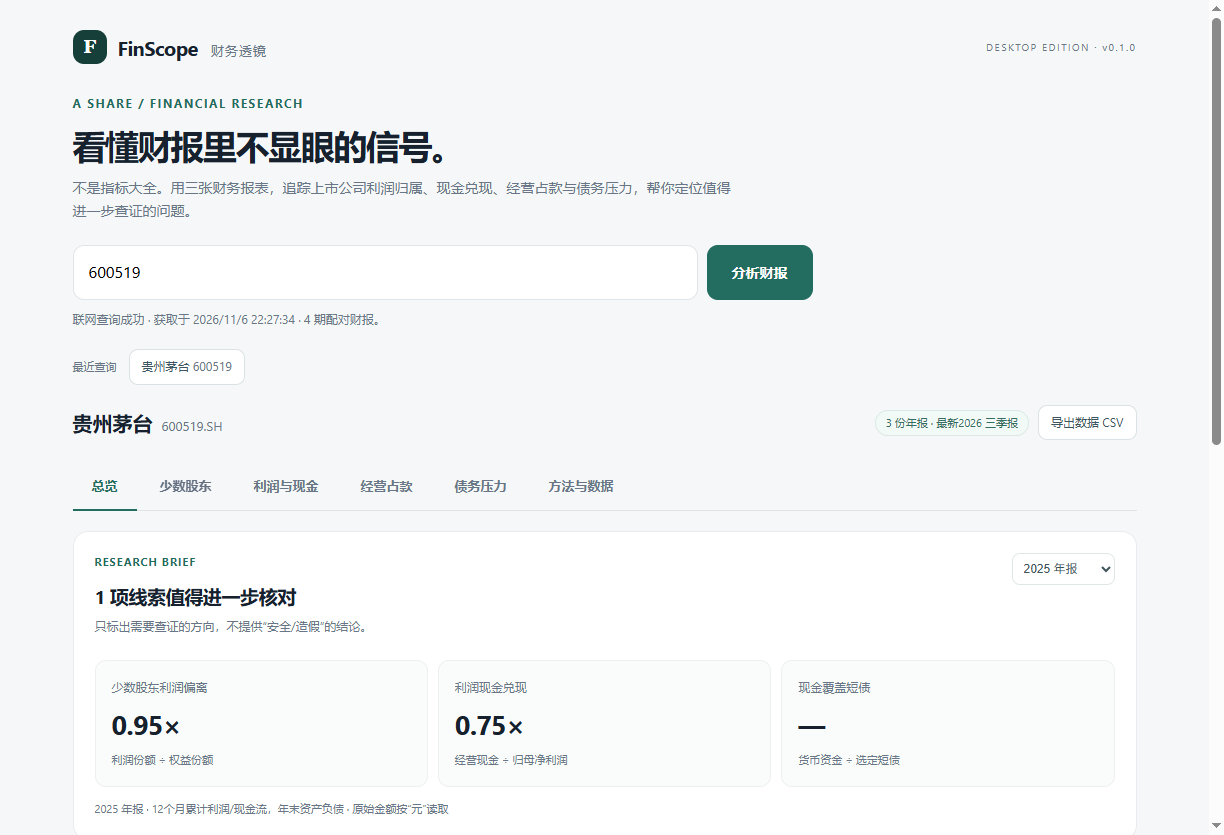
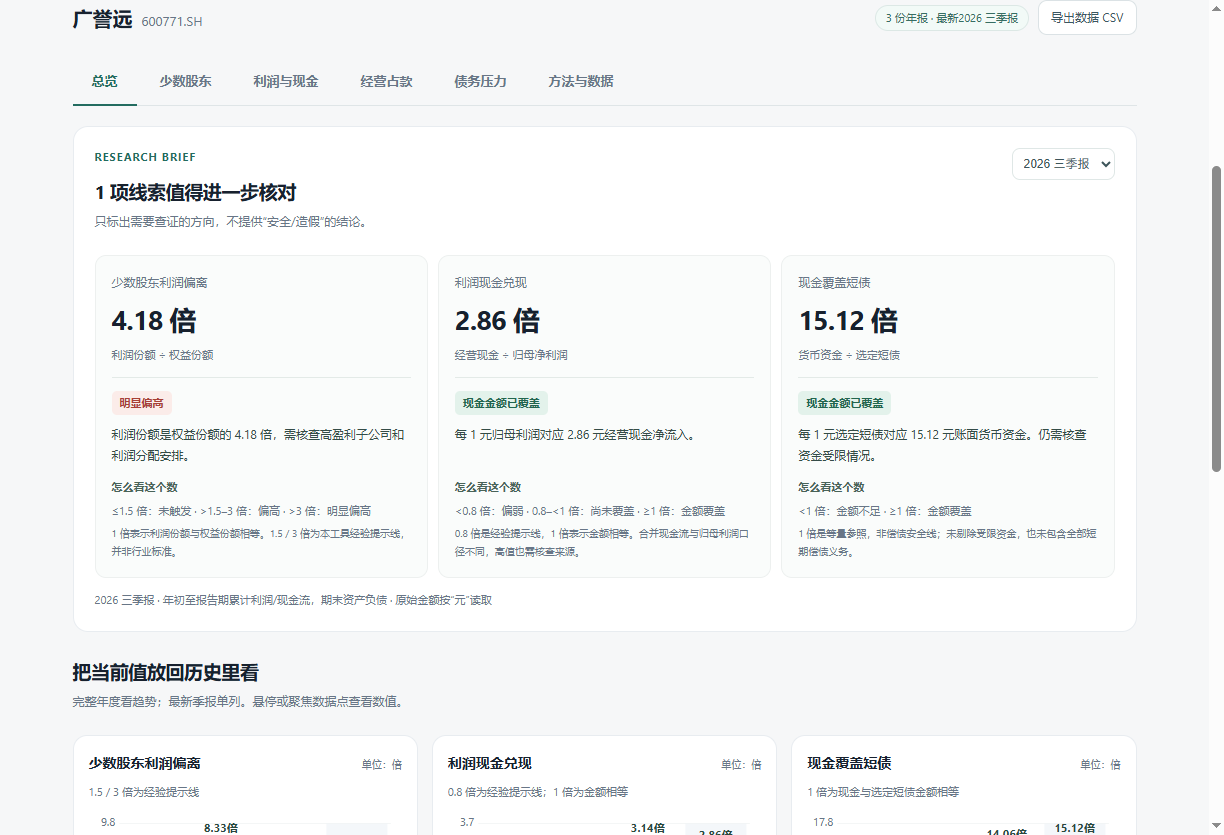
feat: 增加指标参考区间、白话解读和财报趋势图

diff --git a/src/renderer.js b/src/renderer.js
@@ -25,7 +25,7 @@ function div(a,b){return a!==null&&b!==null&&b!==0? a/b :null}
 function fmt(n,d=2){return n===null||!Number.isFinite(n)?'—':n.toFixed(d)}
 function billion(n){return n===null?'—':fmt(n/1e8)+'亿'}
 function pct(n){return n===null?'—':fmt(n*100)+'%'}
-function times(n){return n===null?'—':fmt(n)+'×'}
+function times(n){return n===null?'—':fmt(n)+' 倍'}
 function change(n,base){return base>0&&n!==null?div(n-base,base):null}
 function periodName(d){return !d?'—':d.slice(0,4)+({'12-31':' 年报','09-30':' 三季报','06-30':' 中报','03-31':' 一季报'}[d.slice(5)]||' 报告')}
 function codeOf(str){const match=String(str).trim().toUpperCase().match(/^(\d{6})(?:\.(SH|SZ|BJ))?$/);if(!match)return null;return {code:match[1],secu:match[1]+'.'+(match[2]||(/^[56]/.test(match[1])?'SH':/^(?:[48]|92)/.test(match[1])?'BJ':'SZ'))}}
@@ -39,7 +39,7 @@ function currently(){return reports.find(r=>r.date===selectedPeriod)||latest||an
 function periodOptions(){return [...(latest?[latest]:[]),...annual].map(r=>`<option value="${r.date}" ${selectedPeriod===r.date?'selected':''}>${periodName(r.date)}</option>`).join('')}
 function selectPeriod(){return `<select class="yearselect" data-period aria-label="报告期">${periodOptions()}</select>`}
 function card(title,subtitle,content,extra=''){return `<div class="card"><div class="subhead"><div><h2>${title}</h2>${subtitle?`<p>${subtitle}</p>`:''}</div>${extra}</div>${content}</div>`}
-function kpi(name,value,desc){return `<div class="kpi"><label>${name}</label><div class="value">${value}</div><small>${desc||' '}</small></div>`}
+function kpi(name,value,desc){const key=({'少数股东利润偏离':'minority','份额偏离倍数':'minority','利润现金兑现':'cash','现金兑现比':'cash','现金覆盖短债':'debt','现金覆盖倍数':'debt'})[name];const guide=key?metricGuide(key,metricValue(key,currently())):'';return `<div class="kpi"><label>${name}</label><div class="value">${value}</div><small>${desc||' '}</small>${guide}</div>`}
 function statusClass(s){return s==='bad'?'bad':s==='watch'?'warning':''}
 function insight(title,detail,level=''){return `<div class="insight ${statusClass(level)}"><strong>${title}</strong><p>${detail}</p></div>`}
 function table(head,rows){return `<div class="tablebox"><table><thead><tr>${head.map(v=>`<th>${v}</th>`).join('')}</tr></thead><tbody>${rows.map(row=>`<tr>${row.map((v,i)=>`<td>${i===0?`<b>${v}</b>`:v}</td>`).join('')}</tr>`).join('')}</tbody></table></div>`}
@@ -51,13 +51,13 @@ out+=card('本期需要留意的地方','根据本期可计算指标自动生成
 out+=card('三年趋势速览','仅完整年报之间直接比较；当年季报另列。',table(['报告期','少数股东偏离','经营现金/归母净利','货币资金/选定短债'],[...annual].reverse().map(x=>[periodName(x.date),times(minority(x).ratio),times(cash(x).ratio),times(raw.financial?null:debt(x).coverage)])));$('overview-view').innerHTML=out}
 function minorityPage(){const r=currently();if(!r)return;const m=minority(r);let review;if(m.ratio===null)review=empty('少数股东权益或利润缺失、为零或口径异常');else if(m.ratio>3)review=insight('利润归属与净资产份额差距很大','请先确认是否由少数股东持股的高盈利子公司驱动，再查重大子公司名单、股权协议、利润分配和回购安排；不能直接推定明股实债。','bad');else if(m.ratio>1.5)review=insight('少数股东利润份额高于权益份额','这可能是部分子公司盈利能力更高，也可能是权益结构或分配安排差异。优先看连续三年是否都存在。','watch');else review=insight('当前偏离倍数不高','这只能说明此筛查项未出现明显偏离，不表示不存在其他财务问题。');const metrics=[['少数股东权益',val(r,'minorityEquity')],['所有者权益合计',val(r,'equity')],['少数股东损益',val(r,'minorityProfit')],['合并净利润',val(r,'profit')]];let out=card('少数股东：谁真正分享了利润？','比起直接看“少数股东损益”金额，更值得看其利润份额是否长期大于权益份额。',`<div class="kpis">${kpi('权益份额',pct(m.er),'少数股东权益 / 总权益')}${kpi('利润份额',pct(m.pr),'少数股东损益 / 净利润')}${kpi('份额偏离倍数',times(m.ratio),'利润份额 / 权益份额')}</div>${review}${dataNote(r)}`,selectPeriod());
 out+=card('历史趋势 · 完整年报','看看是偶发偏离，还是持续结构性现象。',table(['报告期','权益份额','利润份额','偏离倍数'],[...annual].reverse().map(x=>{const v=minority(x);return [periodName(x.date),pct(v.er),pct(v.pr),times(v.ratio)]}).concat(latest?[[periodName(latest.date)+'*',pct(minority(latest).er),pct(minority(latest).pr),times(minority(latest).ratio)]]:[]))+'<p class="micro">* 季报为年内累计利润，不参与完整年度趋势判断。</p>');
-out+=`<div class="grid2">${card('公式为什么这样设计？','两个比例的比较，不是“少数股东收益率”。',`<div class="formula"><code>权益份额</code> = 少数股东权益 ÷ 所有者权益合计<br><code>利润份额</code> = 少数股东损益 ÷ 合并净利润<br><code>偏离倍数</code> = 利润份额 ÷ 权益份额</div><p class="micro">1.5×/3×是本工具沿用的经验提示阈值，并非会计或监管认定标准。净利润≤0、权益份额≤0时不使用这个倍数判断。</p>`)}${card('先核查这三个问题','这是线索，不是结论。',`<div class="faq"><details open><summary>高利润子公司股权是不是较分散？</summary><p>高盈利子公司有更多非控股股东，本来就会拉高少数股东利润份额。</p></details><details><summary>少数股东是否有约定回购/保底收益？</summary><p>若要判断明股实债，应进一步查看融资协议、优先分配权、回购承诺与债务披露。</p></details><details><summary>连续三年是否偏高且逐年加重？</summary><p>持续趋势比某一个季度的数值更有研究价值。</p></details></div>` )}</div>`;
+out+=`<div class="grid2">${card('公式为什么这样设计？','两个比例的比较，不是“少数股东收益率”。',`<div class="formula"><code>权益份额</code> = 少数股东权益 ÷ 所有者权益合计<br><code>利润份额</code> = 少数股东损益 ÷ 合并净利润<br><code>偏离倍数</code> = 利润份额 ÷ 权益份额</div><p class="micro">1.5 倍 / 3 倍是本工具沿用的经验提示阈值，并非会计或监管认定标准。净利润≤0、权益份额≤0时不使用这个倍数判断。</p>`)}${card('先核查这三个问题','这是线索，不是结论。',`<div class="faq"><details open><summary>高利润子公司股权是不是较分散？</summary><p>高盈利子公司有更多非控股股东，本来就会拉高少数股东利润份额。</p></details><details><summary>少数股东是否有约定回购/保底收益？</summary><p>若要判断明股实债，应进一步查看融资协议、优先分配权、回购承诺与债务披露。</p></details><details><summary>连续三年是否偏高且逐年加重？</summary><p>持续趋势比某一个季度的数值更有研究价值。</p></details></div>` )}</div>`;
 out+=card('本期原始数据','资产负债表与利润表的四个关键数，单位亿元。',table(['字段','金额'],metrics.map(v=>[v[0],billion(v[1])])));$('minority-view').innerHTML=out}
-function cashPage(){const r=currently();if(!r)return;const c=cash(r);let finding=c.ratio===null?empty('归母净利润不大于零，或经营现金流字段缺失'):c.ratio<0?insight('有利润，但经营现金净流出','优先检查应收增长、营运资本变化和经营性支付。还要排除扩张期与行业季节性影响。','bad'):c.ratio<0.8?insight('利润兑现为现金的能力偏弱','这个口径比较粗略，不能只凭一期数据判断；连续三年偏弱更值得深入研究。','watch'):insight('本期经营现金覆盖归母利润','现金流较强是积极信号，但也可能受预收款或供应商付款节奏影响。');let rows=[...annual].reverse().map(x=>{const v=cash(x);return [periodName(x.date),billion(v.p),billion(v.o),times(v.ratio)]});if(latest)rows.push([periodName(latest.date)+'*',billion(cash(latest).p),billion(cash(latest).o),times(cash(latest).ratio)]);let out=card('利润到账了吗？','净利润可以先确认收入，现金不一定同步到账。',`<div class="kpis">${kpi('经营现金流净额',billion(c.o),'公司经营活动产生的现金')}${kpi('归母净利润',billion(c.p),'归属于母公司的利润')}${kpi('现金兑现比',times(c.ratio),'经营现金 / 归母净利润')}</div>${finding}${dataNote(r)}`,selectPeriod());out+=card('连续三年是否“赚利润不赚钱”？','应优先观察完整年度，季报现金流的季节性可能较大。',table(['报告期','归母净利润','经营现金','兑现比'],rows)+'<p class="micro">* 最新季报单列，不能将9个月金额与12个月金额直接比较。</p>');out+=`<div class="grid2">${card('怎么算？','可理解为利润的现金兑现程度。',`<div class="formula"><code>现金兑现比</code> = 经营活动现金流量净额 ÷ 归母净利润</div><p class="micro">经营现金是全集团合并口径，而归母净利润剔除了少数股东损益，因此这里是一个筛查代理指标，不是严格同口径的收益质量比率。可以同时结合合并净利润核对。</p>`)}${card('看到偏低，先查什么？','这比直接打分更实用。',`<div class="faq"><details open><summary>应收账款是不是涨得比收入快？</summary><p>可能反映销售回款滞后，跳转“经营占款”继续看。</p></details><details><summary>是否大幅增加存货？</summary><p>备货会占用现金，但需区分主动扩产与滞销积压。</p></details><details><summary>是否靠预收款改善现金流？</summary><p>经营现金强也可能来自提前收款，不代表所有当期收入已经兑现。</p></details></div>` )}</div>`;$('cash-view').innerHTML=out}
+function cashPage(){const r=currently();if(!r)return;const c=cash(r);let finding=c.ratio===null?empty('归母净利润不大于零，或经营现金流字段缺失'):c.ratio<0?insight('有利润，但经营现金净流出','优先检查应收增长、营运资本变化和经营性支付。还要排除扩张期与行业季节性影响。','bad'):c.ratio<0.8?insight('利润兑现为现金的能力偏弱','这个口径比较粗略，不能只凭一期数据判断；连续三年偏弱更值得深入研究。','watch'):c.ratio<1?insight('经营现金尚未完全覆盖归母利润','高于0.8倍经验提示线，但仍低于1倍金额相等参照。应结合全年及历史趋势核查。','watch'):insight('本期经营现金覆盖归母利润','现金流较强是积极信号，但也可能受预收款或供应商付款节奏影响。');let rows=[...annual].reverse().map(x=>{const v=cash(x);return [periodName(x.date),billion(v.p),billion(v.o),times(v.ratio)]});if(latest)rows.push([periodName(latest.date)+'*',billion(cash(latest).p),billion(cash(latest).o),times(cash(latest).ratio)]);let out=card('利润到账了吗？','净利润可以先确认收入，现金不一定同步到账。',`<div class="kpis">${kpi('经营现金流净额',billion(c.o),'公司经营活动产生的现金')}${kpi('归母净利润',billion(c.p),'归属于母公司的利润')}${kpi('现金兑现比',times(c.ratio),'经营现金 / 归母净利润')}</div>${finding}${dataNote(r)}`,selectPeriod());out+=card('连续三年是否“赚利润不赚钱”？','应优先观察完整年度，季报现金流的季节性可能较大。',table(['报告期','归母净利润','经营现金','兑现比'],rows)+'<p class="micro">* 最新季报单列，不能将9个月金额与12个月金额直接比较。</p>');out+=`<div class="grid2">${card('怎么算？','可理解为利润的现金兑现程度。',`<div class="formula"><code>现金兑现比</code> = 经营活动现金流量净额 ÷ 归母净利润</div><p class="micro">经营现金是全集团合并口径，而归母净利润剔除了少数股东损益，因此这里是一个筛查代理指标，不是严格同口径的收益质量比率。可以同时结合合并净利润核对。</p>`)}${card('看到偏低，先查什么？','这比直接打分更实用。',`<div class="faq"><details open><summary>应收账款是不是涨得比收入快？</summary><p>可能反映销售回款滞后，跳转“经营占款”继续看。</p></details><details><summary>是否大幅增加存货？</summary><p>备货会占用现金，但需区分主动扩产与滞销积压。</p></details><details><summary>是否靠预收款改善现金流？</summary><p>经营现金强也可能来自提前收款，不代表所有当期收入已经兑现。</p></details></div>` )}</div>`;$('cash-view').innerHTML=out}
 function workingPage(){if(raw?.financial){$('working-view').innerHTML=card('金融企业不适用此初筛','银行、证券、保险公司的经营资产结构不同。',empty('请直接核对金融行业财报附注，不套用工业企业应收与存货指标'));return;}const r=currently();if(!r)return;const w=working(r),prev=annual.find(x=>Number(x.date.slice(0,4))===Number(r.date.slice(0,4))-1&&r.date.endsWith('-12-31'));const w0=prev?working(prev):null;let rows=[...annual].reverse().map(x=>{const v=working(x);return [periodName(x.date),billion(v.rev),billion(v.ar),billion(v.iv),pct(v.arRatio)]});if(latest)rows.push([periodName(latest.date)+'*',billion(working(latest).rev),billion(working(latest).ar),billion(working(latest).iv),'不横比']);const ag=w0?change(w.ar,w0.ar):null,rg=w0?change(w.rev,w0.rev):null,ig=w0?change(w.iv,w0.iv):null;let comment=!r.date.endsWith('-12-31')?insight('季报中的收入是累计值，资产是期末值','本期只展示原始数，避免把期末应收直接除以9个月营收后与年报比。请切换完整年报看同比分化。'):ag!==null&&rg!==null&&ag-rg>0.2?insight('应收增长比收入快得多','关注客户信用政策、应收账龄、坏账准备和前五大客户变化。','watch'):insight('可先观察收入、应收与存货三条线','单一余额高低无法直接判定问题，主要看增长是否持续背离。');let out=card('增长是销售，还是占款？','这里不盲目强调周转率，只比较趋势与增长背离。',`<div class="kpis">${kpi('营业收入',billion(w.rev),'年初至报告期累计')}${kpi('应收账款',billion(w.ar),'报告期末余额')}${kpi('存货',billion(w.iv),'报告期末余额')}</div>${comment}${dataNote(r)}`,selectPeriod());if(prev)out+=card('与上年同期年报比较','增长差异比单独看应收金额更有解释力。',`<div class="kpis">${kpi('收入同比',pct(rg),'完整年度')}${kpi('应收同比',pct(ag),'期末对期末')}${kpi('存货同比',pct(ig),'期末对期末')}</div>`);out+=card('完整年报趋势','应收、存货是时点余额；营收为全年累计额。',table(['报告期','营业收入','应收账款','存货','应收/年收入'],rows)+'<p class="micro">* 季报不计算应收/收入比，避免期间长度导致的误读。</p>');out+=`<div class="grid2">${card('为什么看增长背离？','当营收增长没有转化为回款，资产负债表可能先暴露变化。',`<div class="formula"><code>应收增速</code> = 本年末应收 ÷ 上年末应收 − 1<br><code>收入增速</code> = 本年营收 ÷ 上年营收 − 1<br><code>存货增速</code> = 本年末存货 ÷ 上年末存货 − 1</div><p class="micro">本工具将增速差超过20个百分点仅作为研究提示，而不是行业通用警戒线。</p>`)}${card('别忽略这些“藏起来”的占款','这个模块不假装把所有应收都覆盖了。',`<p>一些行业大量使用应收票据、合同资产或应收款项融资。只看“应收账款”会漏掉这些项目；工程、地产、金融企业尤其需要行业定制。</p><p>出现异常时优先翻财报附注中的账龄、减值比例、存货跌价准备和销售回款条款。</p>` )}</div>`;$('working-view').innerHTML=out}
 function debtPage(){if(raw?.financial){$('debt-view').innerHTML=card('金融企业不适用此初筛','存款与同业融资不能套用普通企业短债指标。',empty('请结合资本充足率、流动性覆盖率等行业指标研究'));return;}const r=currently();if(!r)return;const d=debt(r),assets=val(r,'assets'),liab=val(r,'liabilities'),lev=assets>0&&liab!==null?liab/assets:null;let finding=d.coverage===null?empty('短期债务字段缺失或本期选定短债为零'):d.coverage<1?insight('货币资金小于选定短期债务','属于需要核查的偿债缓冲信号，但企业可以续贷、发行债券或靠经营现金流偿付，不能据此判断即将违约。','watch'):insight('货币资金对选定短债覆盖较充足','仍需关注现金是否受限、短债披露是否完整和经营现金流变化。');let rows=[...annual].reverse().map(x=>{const v=debt(x);return [periodName(x.date),billion(v.m),billion(v.sum),times(v.coverage)]});if(latest)rows.push([periodName(latest.date)+'*',billion(debt(latest).m),billion(debt(latest).sum),times(debt(latest).coverage)]);let out=card('账上现金，能覆盖近债吗？','只做一个可核查的初筛，不把所有负债混成“有息债务”。',`<div class="kpis">${kpi('货币资金',billion(d.m),'可能存在受限现金')}${kpi('选定短债',billion(d.sum),'短期借款 + 一年内到期非流动负债')}${kpi('现金覆盖倍数',times(d.coverage),'货币资金 / 选定短债')}</div>${finding}${dataNote(r)}`,selectPeriod());out+=card('资产负债与短债趋势','不同企业融资结构差异很大，优先看近三年的变化。',table(['报告期','货币资金','选定短债','覆盖倍数'],rows)+`<div class="micro" style="margin-top:10px">本期资产负债率（简化）：${pct(lev)}。未把应付票据、租赁负债等自动纳入短债，可能低估真实短期偿债义务。</div>`);out+=`<div class="grid2">${card('为什么这样算？','不把高资产负债率直接等同于高偿债风险。',`<div class="formula"><code>选定短债</code> = 短期借款 + 一年内到期的非流动负债<br><code>覆盖倍数</code> = 货币资金 ÷ 选定短债</div><p class="micro">这是狭义、保守程度有限的初筛比值。受限资金、有息票据、永续债、银行授信等都可能改变实际判断。</p>`)}${card('真正值得查的债务信号','以下通常比一个负债率更有意义。',`<div class="faq"><details open><summary>货币资金多，但利息费用也很高？</summary><p>需要核查资金受限、存贷双高、银行存款真实性与利息收支匹配。</p></details><details><summary>短债比上一年快速增加？</summary><p>检查到期结构、抵押担保、债务续期与信用评级。</p></details><details><summary>企业现金流长期为负？</summary><p>融资依赖度更高，应该结合“利润与现金”模块查看。</p></details></div>` )}</div>`;$('debt-view').innerHTML=out}
 function debugPage(){if(!raw){$('debug-view').innerHTML='<p class="muted">获取财报后可查看字段映射和数据核验。</p>';return}const r=currently(),keys=['b','i','c'];let mapping='<div class="mapping">';for(const [k,info] of Object.entries(F)){const source=r?.[info.sheet]||{};let fields=Object.keys(source).filter(x=>source[x]===null||typeof source[x]==='number');let current=field(r,k);mapping+=`<label>${info.label}<select data-map="${k}"><option value="">自动匹配${current?' · '+E(current):' · 未找到'}</option>${fields.map(f=>`<option ${chosen[k]===f?'selected':''} value="${E(f)}">${E(f)}</option>`).join('')}</select></label>`}mapping+='</div>';const missing=Object.keys(F).filter(k=>!field(r,k));$('debug-view').innerHTML=`<div class="flex" style="justify-content:space-between;margin-bottom:12px"><strong>字段校验 · ${periodName(r?.date)}</strong><button class="smallbtn" id="apply-map">应用字段映射</button></div><p class="micro">字段未识别时不计算；如接口字段调整，可手动选择对应字段。确认字段的语义后再应用，避免错误结论。</p>${missing.length?`<div class="alert" style="margin-bottom:10px">未自动找到：${missing.map(x=>F[x].label).join('、')}。相关指标将显示“—”。</div>`:''}${mapping}<details style="margin-top:15px"><summary>查看接口原始字段和样例 JSON</summary><pre class="debug">${E(JSON.stringify({b:r?.b,i:r?.i,c:r?.c},null,2))}</pre></details>`;document.getElementById('apply-map').onclick=()=>{document.querySelectorAll('[data-map]').forEach(el=>chosen[el.dataset.map]=el.value||'');renderAll()}}
-function renderAll(){if(!raw)return;overview();minorityPage();cashPage();workingPage();debtPage();debugPage();document.querySelectorAll('[data-period]').forEach(el=>el.onchange=e=>{selectedPeriod=e.target.value;renderAll()});document.querySelectorAll('[data-jump]').forEach(el=>el.onclick=()=>switchTab(el.dataset.jump))}
+function renderAll(){if(!raw)return;overview();minorityPage();cashPage();workingPage();debtPage();debugPage();enhanceCharts();document.querySelectorAll('[data-period]').forEach(el=>el.onchange=e=>{selectedPeriod=e.target.value;renderAll()});document.querySelectorAll('[data-jump]').forEach(el=>el.onclick=()=>switchTab(el.dataset.jump))}
 function switchTab(tab){activeTab=tab;document.querySelectorAll('.tab').forEach(x=>{x.classList.toggle('active',x.dataset.tab===tab);x.setAttribute('aria-selected',x.dataset.tab===tab?'true':'false')});document.querySelectorAll('.panel').forEach(x=>x.classList.toggle('active',x.id==='panel-'+tab))}
 document.querySelectorAll('.tab').forEach(el=>el.onclick=()=>switchTab(el.dataset.tab));
 

diff --git a/src/insights.js b/src/insights.js
@@ -1,0 +1,73 @@
+'use strict';
+
+// 提示线沿用产品的研究规则；1 倍是等量关系，不是行业合格标准。
+const METRICS = {
+  minority: {title:'少数股东利润偏离', unit:'倍', refs:[1.5,3], reference:'≤1.5 倍：未触发 · >1.5–3 倍：偏高 · >3 倍：明显偏高', note:'1 倍表示利润份额与权益份额相等。1.5 / 3 倍为本工具经验提示线，并非行业标准。'},
+  cash: {title:'利润现金兑现', unit:'倍', refs:[0.8,1], reference:'<0.8 倍：偏弱 · 0.8–<1 倍：尚未覆盖 · ≥1 倍：金额覆盖', note:'0.8 倍是经验提示线，1 倍表示金额相等。合并现金流与归母利润口径不同，高值也需核查来源。'},
+  debt: {title:'现金覆盖短债', unit:'倍', refs:[1], reference:'<1 倍：金额不足 · ≥1 倍：金额覆盖', note:'1 倍是等量参照，非偿债安全线；未剔除受限资金，也未包含全部短期偿债义务。'}
+};
+function metricValue(key,r){
+  if(!r)return null;
+  if(key==='minority')return minority(r).ratio;
+  if(key==='cash')return cash(r).ratio;
+  return raw?.financial?null:debt(r).coverage;
+}
+function metricAssessment(key,n){
+  if(n===null||!Number.isFinite(n))return {tone:'neutral',label:'暂不可判断',text:'数据缺失、分母为零或口径不适用；不按零值处理。'};
+  if(key==='minority')return {tone:n>3?'bad':n>1.5?'watch':'neutral',label:n>3?'明显偏高':n>1.5?'偏高':'未触发提示线',text:`利润份额是权益份额的 ${fmt(n)} 倍，${n>1.5?'需核查高盈利子公司和利润分配安排。':'仍应结合子公司结构核查。'}`};
+  if(key==='cash')return {tone:n<0?'bad':n<1?'watch':'good',label:n<0?'经营现金净流出':n<0.8?'现金兑现偏弱':n<1?'尚未覆盖利润':'现金金额已覆盖',text:n<0?`每 1 元归母利润对应 ${fmt(Math.abs(n))} 元经营现金净流出。`:`每 1 元归母利润对应 ${fmt(n)} 元经营现金净流入。`};
+  return {tone:n<1?'watch':'good',label:n<1?'现金金额不足':'现金金额已覆盖',text:`每 1 元选定短债对应 ${fmt(n)} 元账面货币资金。${n>=1?'仍需核查资金受限情况。':''}`};
+}
+function metricGuide(key,n){
+  const rule=METRICS[key],a=metricAssessment(key,n);
+  return `<div class="metric-guide"><span class="signal ${a.tone}">${a.label}</span><p class="metric-meaning">${a.text}</p><div class="reference"><b>怎么看这个数</b><p>${rule.reference}</p><small>${rule.note}</small></div></div>`;
+}
+function chartNumber(n,unit){return !Number.isFinite(n)?'—':fmt(n,Math.abs(n)>=100?0:2)+unit;}
+
+/** 缺失值断线；季度为独立点，不连接到完整年度。所有图均从零开始覆盖正负值。 */
+function trendChart(title,series,{unit='倍',refs=[],quarter=true,bars=false,subtitle=''}={}){
+  const periods=[...annual].reverse().concat(quarter&&latest?[latest]:[]);
+  const values=series.map(s=>periods.map(s.value));
+  const valid=values.flat().filter(n=>n!==null&&Number.isFinite(n));
+  if(!valid.length)return `<div class="chart-card"><h3>${E(title)}</h3><div class="chart-empty">暂无可绘制的数据，不将缺失值画成 0。</div></div>`;
+  const W=600,H=260,left=58,right=22,top=24,bottom=52;
+  const minimum=Math.min(0,...valid,...refs),maximum=Math.max(0,...valid,...refs);
+  const span=maximum-minimum||1,lo=minimum<0?minimum-span*.12:0,hi=maximum+span*.18;
+  const y=n=>top+(hi-n)/(hi-lo)*(H-top-bottom);
+  const x=i=>left+(i+.5)*(W-left-right)/Math.max(periods.length,1);
+  const colors=['#236c60','#4879c7','#be842d'];
+  let svg=`<svg viewBox="0 0 ${W} ${H}" role="img" aria-label="${E(title)}，单位${E(unit)}"><title>${E(title)}。${E(subtitle)}</title>`;
+  for(let i=0;i<=4;i++){const n=lo+(hi-lo)*i/4;svg+=`<line x1="${left}" y1="${y(n)}" x2="${W-right}" y2="${y(n)}" class="chart-grid"/><text x="${left-8}" y="${y(n)+4}" text-anchor="end" class="axis">${fmt(n,Math.abs(n)>=100?0:1)}</text>`;}
+  if(minimum<0)svg+=`<line x1="${left}" y1="${y(0)}" x2="${W-right}" y2="${y(0)}" stroke="#88999a"/>`;
+  refs.forEach(n=>{svg+=`<line x1="${left}" y1="${y(n)}" x2="${W-right}" y2="${y(n)}" class="reference-line"><title>参照线 ${n}${unit}</title></line>`;});
+  if(quarter&&latest){const q=periods.length-1;svg+=`<rect x="${x(q)-(W-left-right)/periods.length*.45}" y="${top}" width="${(W-left-right)/periods.length*.9}" height="${H-top-bottom}" fill="#eaf0f6" opacity=".55"/>`;}
+  values.forEach((nums,s)=>{
+    const color=colors[s%colors.length];
+    nums.forEach((n,i)=>{
+      if(n===null||!Number.isFinite(n))return;
+      const tooltip=`${periodName(periods[i].date)} · ${series[s].name} ${chartNumber(n,unit)}`;
+      if(bars){const width=Math.min(26,(W-left-right)/periods.length/(series.length+2));svg+=`<rect tabindex="0" aria-label="${E(tooltip)}" x="${x(i)+(s-series.length/2)*width}" y="${Math.min(y(n),y(0))}" width="${width-3}" height="${Math.max(1,Math.abs(y(n)-y(0)))}" rx="2" fill="${color}"><title>${E(tooltip)}</title></rect>`;}
+      else{
+        const prev=nums[i-1];
+        if(i>0&&prev!==null&&Number.isFinite(prev)&&periods[i].date.endsWith('-12-31'))svg+=`<line x1="${x(i-1)}" y1="${y(prev)}" x2="${x(i)}" y2="${y(n)}" stroke="${color}" stroke-width="2.5"/>`;
+        svg+=`<circle tabindex="0" aria-label="${E(tooltip)}" cx="${x(i)}" cy="${y(n)}" r="5" fill="${color}" stroke="white" stroke-width="2"><title>${E(tooltip)}</title></circle>`;
+        if(series.length===1)svg+=`<text x="${x(i)}" y="${y(n)-12}" text-anchor="middle" class="point-label">${chartNumber(n,unit)}</text>`;
+      }
+    });
+  });
+  periods.forEach((r,i)=>{svg+=`<text x="${x(i)}" y="${H-27}" text-anchor="middle" class="axis ${r.date===selectedPeriod?'selected-axis':''}">${r.date.slice(0,4)}${r.date.endsWith('-12-31')?'年报':({'03-31':'一季','06-30':'中报','09-30':'三季'}[r.date.slice(5)]||'季报')}</text>`;});
+  svg+='</svg>';
+  return `<div class="chart-card"><div class="chart-heading"><h3>${E(title)}</h3><span>单位：${unit}</span></div>${subtitle?`<p class="micro">${E(subtitle)}</p>`:''}${svg}<div class="chart-legend">${series.map((s,i)=>`<span><i style="background:${colors[i%colors.length]}"></i>${E(s.name)}</span>`).join('')}${refs.length?`<span>┄ 参照线 ${refs.join(' / ')} ${unit}</span>`:''}</div>${quarter&&latest?'<p class="micro">浅色区域为最新季报，单独展示，不与年报连线比较。</p>':''}</div>`;
+}
+function ratioChart(key){const m=METRICS[key];return trendChart(m.title,[{name:m.title,value:r=>metricValue(key,r)}],{refs:m.refs,subtitle:key==='minority'?'1.5 / 3 倍为经验提示线':key==='cash'?'0.8 倍为经验提示线；1 倍为金额相等':'1 倍为现金与选定短债金额相等'});}
+function insertCharts(id,html){const first=$(id+'-view').firstElementChild;if(first)first.insertAdjacentHTML('afterend',html);}
+function enhanceCharts(){
+  insertCharts('overview',`<div class="chart-section"><div class="subhead"><div><h2>把当前值放回历史里看</h2><p>完整年度看趋势；最新季报单列。悬停或聚焦数据点查看数值。</p></div></div><div class="trend-grid">${ratioChart('minority')}${ratioChart('cash')}${raw.financial?'':ratioChart('debt')}</div></div>`);
+  insertCharts('minority',ratioChart('minority'));
+  insertCharts('cash',trendChart('利润与现金金额对照',[{name:'归母净利润',value:r=>{const v=cash(r).p;return v===null?null:v/1e8;}},{name:'经营现金净额',value:r=>{const v=cash(r).o;return v===null?null:v/1e8;}}],{unit:'亿元',quarter:false,bars:true,subtitle:'同一完整年度并排比较；两者合并范围存在差异。'})+ratioChart('cash'));
+  if(!raw.financial){
+    const growth=k=>r=>{const prev=annual.find(p=>Number(p.date.slice(0,4))===Number(r.date.slice(0,4))-1);const v=prev?change(val(r,k),val(prev,k)):null;return v===null?null:v*100;};
+    insertCharts('working',trendChart('收入、应收与存货增速',[{name:'营业收入',value:growth('revenue')},{name:'应收账款',value:growth('receivable')},{name:'存货',value:growth('inventory')}],{unit:'%',quarter:false,bars:true,subtitle:'应收或存货增速超过收入增速 20 个百分点，是本工具经验提示线。缺少上年数据或基数不为正时不计算。'}));
+    insertCharts('debt',ratioChart('debt')+trendChart('账面现金与选定短债',[{name:'货币资金',value:r=>{const v=debt(r).m;return v===null?null:v/1e8;}},{name:'选定短债',value:r=>{const v=debt(r).sum;return v===null?null:v/1e8;}}],{unit:'亿元',quarter:false,bars:true}));
+  }
+}

diff --git a/src/index.html b/src/index.html
@@ -1,5 +1,5 @@
-<!doctype html><html lang="zh-CN"><head><meta charset="utf-8"><meta http-equiv="Content-Security-Policy" content="default-src 'none'; script-src 'self'; style-src 'self' 'unsafe-inline'; img-src 'self' data:; connect-src 'none'; base-uri 'none'; form-action 'none'"><meta name="viewport" content="width=device-width,initial-scale=1"><meta name="theme-color" content="#f6f7f8"><title>FinScope · 财务透镜</title><link rel="stylesheet" href="styles.css"></head><body><div class="layout"><header class="head"><div class="brand"><div class="logo">F</div><span>FinScope <small>财务透镜</small></span></div><div class="headnote">DESKTOP EDITION · v0.1.0</div></header><div class="eyebrow">A SHARE / FINANCIAL RESEARCH</div><h1>看懂财报里不显眼的信号。</h1><div class="intro"><p>不是指标大全。用三张财务报表，追踪上市公司利润归属、现金兑现、经营占款与债务压力，帮你定位值得进一步查证的问题。</p></div><div class="query"><input id="stock" value="600519" placeholder="输入A股代码，例如 600519 / 000001" aria-label="A股股票代码"><button class="primary" id="search">分析财报</button></div><div class="status" id="status" role="status" aria-live="polite">输入股票代码，获取最近3份已披露年报和最新一期季报。</div><div id="history" class="history" aria-label="最近查询"></div><div class="ticker hidden" id="ticker"><div><strong id="company">—</strong><span class="code" id="symbol"></span></div><div class="flex"><span class="pill" id="coverage">—</span><button class="smallbtn" id="export">导出数据 CSV</button></div></div><div class="tabs" role="tablist" aria-label="分析模块"><button class="tab active" data-tab="overview">总览</button><button class="tab" data-tab="minority">少数股东</button><button class="tab" data-tab="cash">利润与现金</button><button class="tab" data-tab="working">经营占款</button><button class="tab" data-tab="debt">债务压力</button><button class="tab" data-tab="about">方法与数据</button></div>
+<!doctype html><html lang="zh-CN"><head><meta charset="utf-8"><meta http-equiv="Content-Security-Policy" content="default-src 'none'; script-src 'self'; style-src 'self' 'unsafe-inline'; img-src 'self' data:; connect-src 'none'; base-uri 'none'; form-action 'none'"><meta name="viewport" content="width=device-width,initial-scale=1"><meta name="theme-color" content="#f6f7f8"><title>FinScope · 财务透镜</title><link rel="stylesheet" href="styles.css"></head><body><div class="layout"><header class="head"><div class="brand"><div class="logo">F</div><span>FinScope <small>财务透镜</small></span></div><div class="headnote">DESKTOP EDITION · v0.2.0</div></header><div class="eyebrow">A SHARE / FINANCIAL RESEARCH</div><h1>看懂财报里不显眼的信号。</h1><div class="intro"><p>不是指标大全。用三张财务报表，追踪上市公司利润归属、现金兑现、经营占款与债务压力，帮你定位值得进一步查证的问题。</p></div><div class="query"><input id="stock" value="600519" placeholder="输入A股代码，例如 600519 / 000001" aria-label="A股股票代码"><button class="primary" id="search">分析财报</button></div><div class="status" id="status" role="status" aria-live="polite">输入股票代码，获取最近3份已披露年报和最新一期季报。</div><div id="history" class="history" aria-label="最近查询"></div><div class="ticker hidden" id="ticker"><div><strong id="company">—</strong><span class="code" id="symbol"></span></div><div class="flex"><span class="pill" id="coverage">—</span><button class="smallbtn" id="export">导出数据 CSV</button></div></div><div class="tabs" role="tablist" aria-label="分析模块"><button class="tab active" data-tab="overview">总览</button><button class="tab" data-tab="minority">少数股东</button><button class="tab" data-tab="cash">利润与现金</button><button class="tab" data-tab="working">经营占款</button><button class="tab" data-tab="debt">债务压力</button><button class="tab" data-tab="about">方法与数据</button></div>
 <section class="panel active" id="panel-overview"><div id="overview-view"><div class="empty"><div class="icon">◎</div>输入股票代码后开始分析。<br><span class="micro">三年趋势 · 原始数据核验 · 本地缓存 · CSV 导出</span></div></div></section>
 <section class="panel" id="panel-minority"><div id="minority-view" class="analysis-view"></div></section><section class="panel" id="panel-cash"><div id="cash-view" class="analysis-view"></div></section><section class="panel" id="panel-working"><div id="working-view" class="analysis-view"></div></section><section class="panel" id="panel-debt"><div id="debt-view" class="analysis-view"></div></section>
 <section class="panel" id="panel-about"><div class="card"><div class="subhead"><div><h2>为什么选这四组分析？</h2><p>都是单看净利润时容易忽略的线索；不是财务造假判定器。</p></div></div><div class="faq"><details open><summary>① 少数股东：赚的钱为什么更多地归了别人？</summary><p>合并报表把控股子公司的资产、利润全额纳入，但子公司并非100%归母公司所有。少数股东权益是非控股方在合并净资产中的份额，少数股东损益是其当期利润份额。对比两者比例，能发现利润归属和权益结构不对称的情况。可能源于高盈利子公司、股权结构差异，也可能需要检查特殊协议；不能据此断言“明股实债”。</p></details><details><summary>② 利润与现金：报表上的盈利，是否变成经营现金？</summary><p>净利润包含应计收入和非现金项目，经营活动现金净额反映经营收支现金变化。多年度经营现金净额持续弱于归母利润，值得查应收、存货、预收款和一次性项目；但现金流存在行业、季节、扩张周期差异。</p></details><details><summary>③ 经营占款：收入增长是否堆积在应收和存货？</summary><p>营业收入上升的同时，应收账款和存货增长更快，可能意味着回款速度放缓、渠道压货或备货压力。单看金额变化无法诊断，应结合业务模式、应收票据、合同资产和周转周期。</p></details><details><summary>④ 债务压力：账面有钱，近期债能不能覆盖？</summary><p>货币资金与短期借款、1年内到期的非流动负债对比，可以形成一个初步的偿债缓冲指标。但资金可能受限，债务可能有续贷安排，且金融机构的报表结构不能直接套用此法。</p></details></div></div><div class="card"><div class="subhead"><div><h2>数据边界与计算纪律</h2><p>避免看起来“准确”，实际却把不同口径混在一起。</p></div></div><div class="callout">最近3个完整年度指最近3份已披露12月31日年报。当前年份尚未出年报时，最新季报单列，利润和现金流为年初至该期的累计数，净资产等为报告期末存量数。季度结果不年化，也不直接与完整年度的绝对额比较。</div><p class="micro">接口：东方财富数据中心（报告期发现）与 F10 合并完整报表接口（非正式开放 API）。字段、访问限制、反爬规则可能变化；财报公告修订、母公司/合并口径、金融企业的报表差异可能导致结果不完整。优先以企业公告原文为准。</p><div id="debug-view" style="margin-top:16px"></div></div></section><footer class="foot">数据来自东方财富公开网页接口，非官方合作产品。页面仅供财务研究，不构成买卖建议；信号不能单独作为认定违规或财务造假的依据。<br>本工具不需登录或填写账号密码，由桌面主进程获取公开数据；成功查询会保存本地缓存，断网时可手动读取。缓存时间会明确标注。</footer></div>
-<script src="renderer.js" defer></script></body></html>
+<script src="insights.js" defer></script><script src="renderer.js" defer></script></body></html>

diff --git a/src/styles.css b/src/styles.css
@@ -6,4 +6,5 @@
 .history{display:flex;gap:8px;align-items:center;flex-wrap:wrap;margin:0 0 20px}.history>span{font-size:11px;color:var(--sub);margin-right:4px}
 button:hover{filter:brightness(.96)}button:focus-visible,select:focus-visible{outline:2px solid var(--accent);outline-offset:3px}
 .analysis-view:empty::after{content:'输入股票代码后开始分析';display:block;padding:60px;text-align:center;color:var(--sub)}
+.metric-guide{margin-top:13px;border-top:1px solid #e3eae7;padding-top:12px}.signal{display:inline-block;border-radius:5px;padding:3px 8px;font-size:11px;font-weight:650;background:#edf0f3;color:#596576}.signal.bad{background:#fbece9;color:#a84036}.signal.watch{background:#fff1d9;color:#916010}.signal.good{background:#e3f2eb;color:#22664e}.metric-meaning{font-size:12px;line-height:1.8;color:#344c47;min-height:44px;margin:9px 0}.reference{font-size:11px;color:#64756d;line-height:1.8}.reference b{font-size:11px;color:#496358}.reference p{font-size:11px;margin:4px 0}.reference small{font-size:10px;line-height:1.8}.chart-section{margin:24px 0}.trend-grid{display:grid;grid-template-columns:repeat(3,minmax(0,1fr));gap:14px}.chart-card{background:white;border:1px solid var(--line);border-radius:14px;padding:18px;margin-bottom:15px;min-width:0}.trend-grid .chart-card{padding:15px}.chart-heading{display:flex;justify-content:space-between;gap:10px;align-items:baseline}.chart-heading h3{margin:0}.chart-heading>span{font-size:10px;color:var(--sub);white-space:nowrap}.chart-card svg{width:100%;max-height:310px;display:block;overflow:visible;margin:10px 0}.axis{fill:#687687;font-size:18px}.point-label{fill:#29483e;font-size:20px;font-weight:650}.selected-axis{fill:#236c60;font-weight:750}.chart-grid{stroke:#e9eeed;stroke-width:1}.reference-line{stroke:#bd8b40;stroke-width:1.5;stroke-dasharray:7 5}.chart-legend{display:flex;gap:12px;flex-wrap:wrap;font-size:11px;color:#687687}.chart-legend span{display:inline-flex;gap:5px;align-items:center}.chart-legend i{display:inline-block;width:9px;height:9px;border-radius:50%}.chart-empty{padding:40px 10px;text-align:center;font-size:12px;color:var(--sub)}.chart-card svg [tabindex]:focus{outline:2px solid #bd8b40}.trend-grid .axis{font-size:21px}.trend-grid .point-label{font-size:22px}@media(max-width:950px){.trend-grid{grid-template-columns:1fr}.chart-card svg{max-height:280px}}@media(max-width:720px){.kpis{grid-template-columns:1fr}.metric-meaning{min-height:0}}
 .tabs{position:sticky;top:0;background:var(--bg);z-index:2;padding-top:5px}

diff --git a/docs/RELEASE_NOTES.md b/docs/RELEASE_NOTES.md
@@ -1,11 +1,12 @@
-首个 Windows x64 桌面版本。
+v0.2.0：参考区间、白话解读与可视化更新。
 
-- 提供总览、少数股东、利润与现金、经营占款、债务压力、方法与数据六个模块。
-- 接入东方财富 F10 合并完整报表，展示最近三份年报及最新季报。
-- 支持公式解释、报告期切换、字段映射与原始 JSON 核验。
-- 增加本地缓存、最近查询和原生 CSV 保存。
-- 对金融企业暂停普通企业经营占款与债务初筛。
+- 所有倍数直接显示“倍”，避免将 × 误解为乘号。
+- 指标卡加入状态标签、参考区间与“每 1 元对应多少元”的白话解释。
+- 区分经验提示线与 1 倍等量参照，明确不代表行业统一合理值。
+- 新增三年倍数趋势图、利润与现金柱状图、收入与占款增速图、现金与短债对照图。
+- 季报独立显示，缺失值断线不填零；支持悬停、键盘聚焦查看数值。
+- 修正现金兑现比在 0.8 至不足 1 倍时的说明，不再显示为已覆盖利润。
 
-下载 `FinScope-Setup-0.1.0-x64.exe` 后按向导安装。附带 `SHA256SUMS.txt` 供核对完整性。
+下载 `FinScope-Setup-0.2.0-x64.exe` 后退出旧版，按向导安装新版。附带 `SHA256SUMS.txt` 供核对完整性。
 
 安装包尚未进行商业代码签名。仅供财务研究，不构成投资建议；第三方网页接口可能调整或限流。
